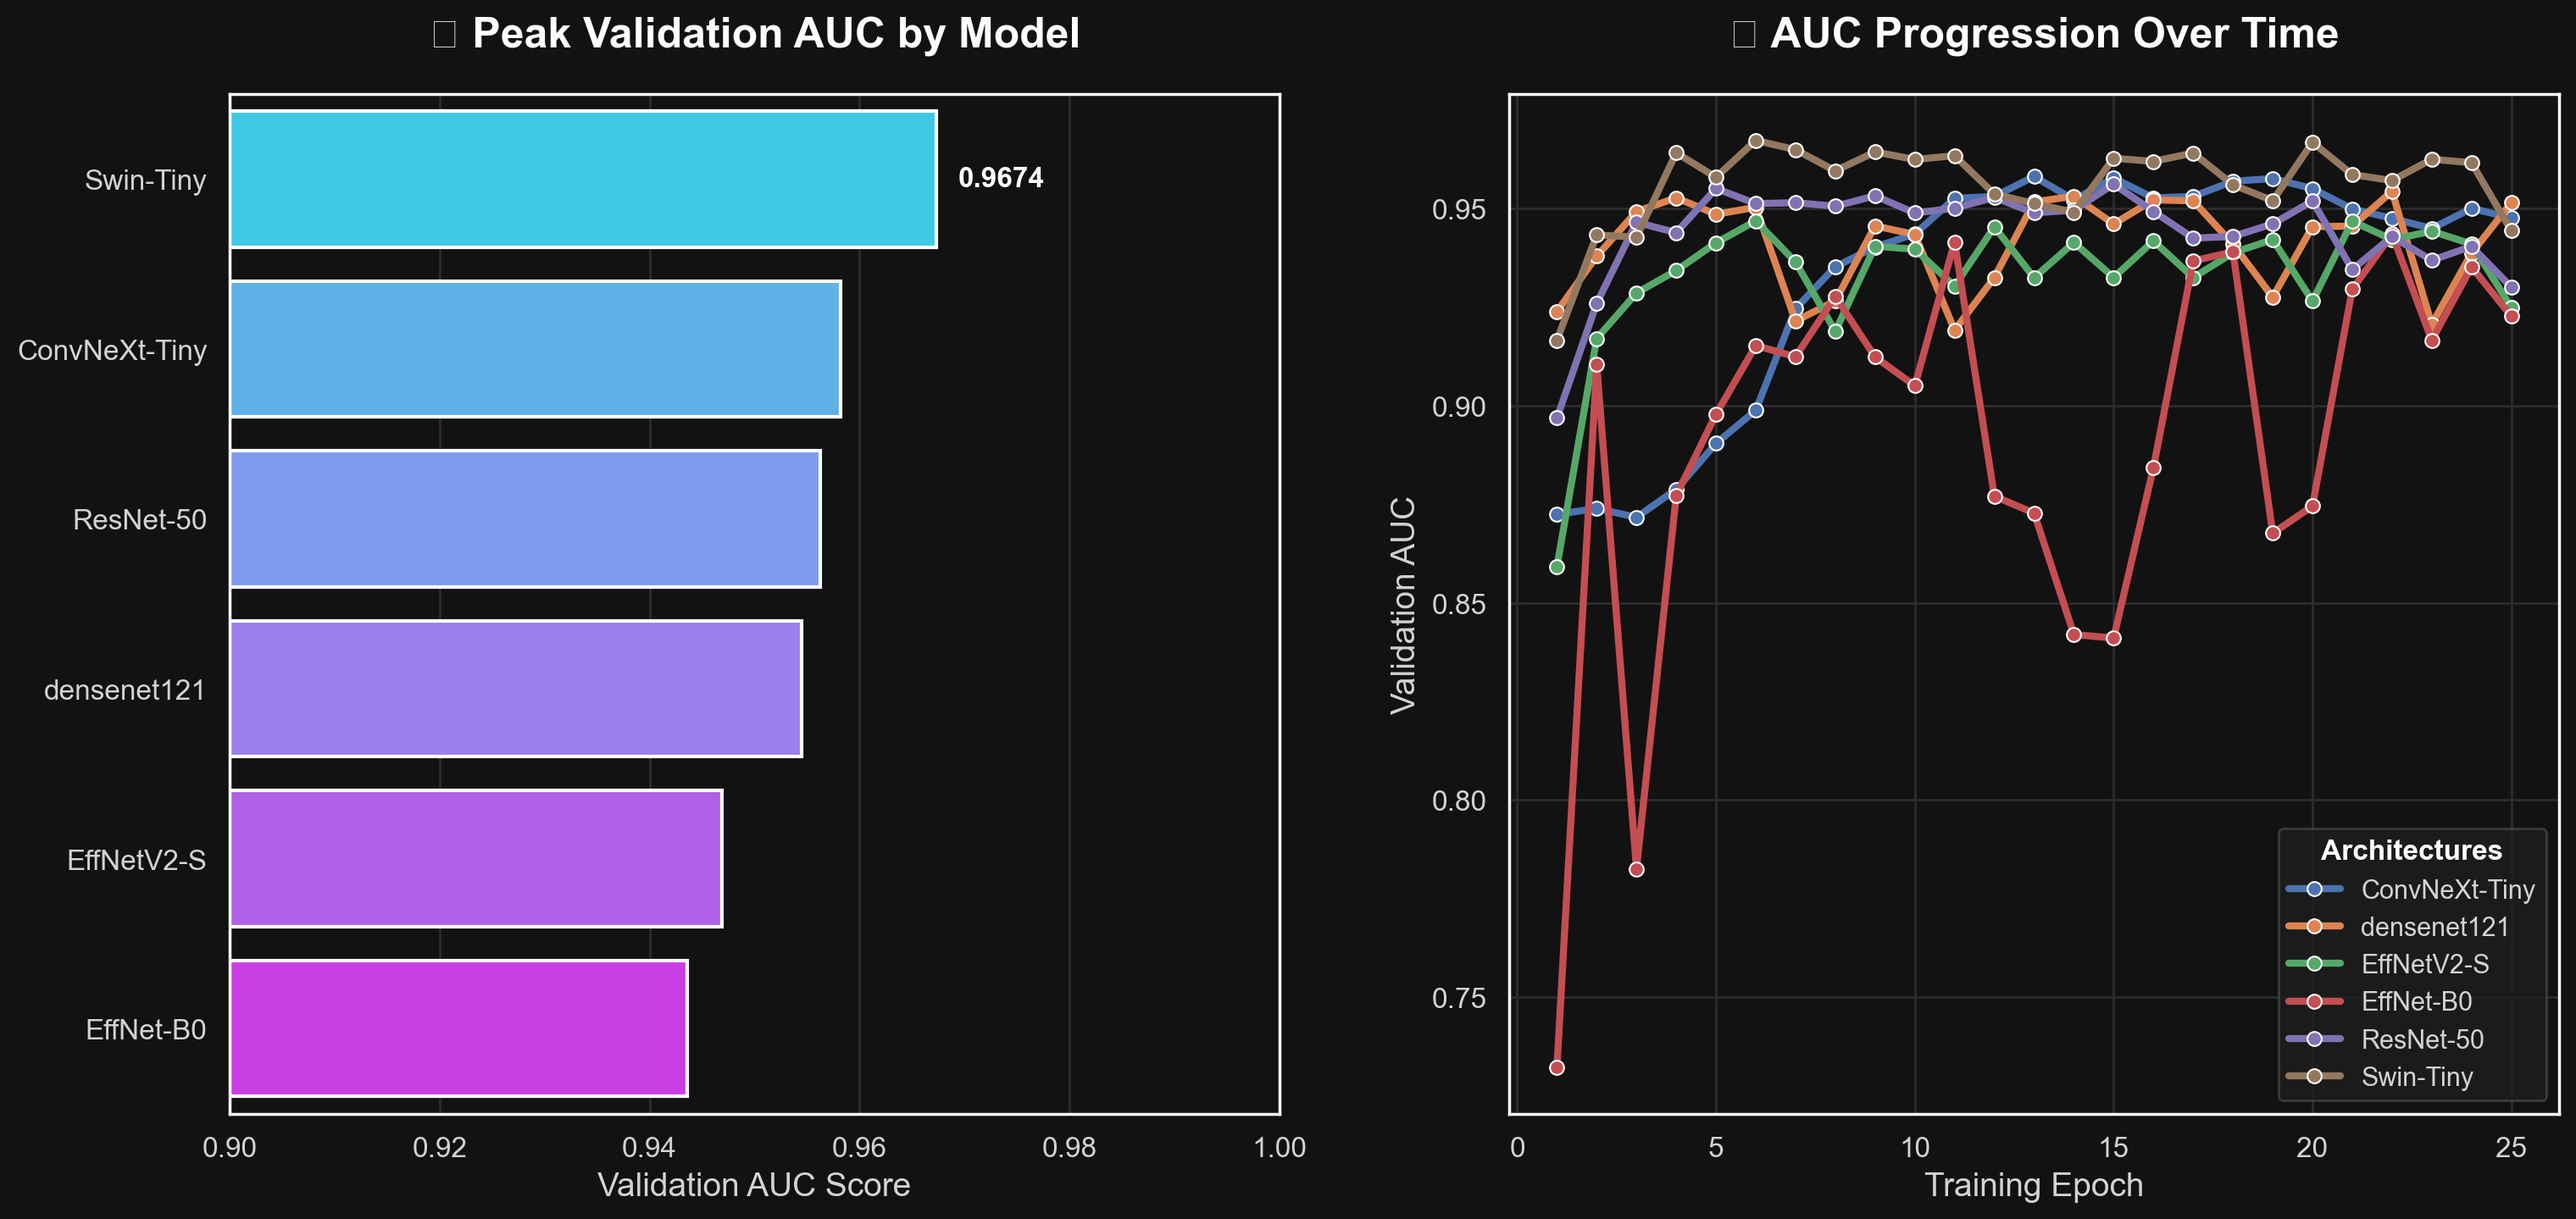
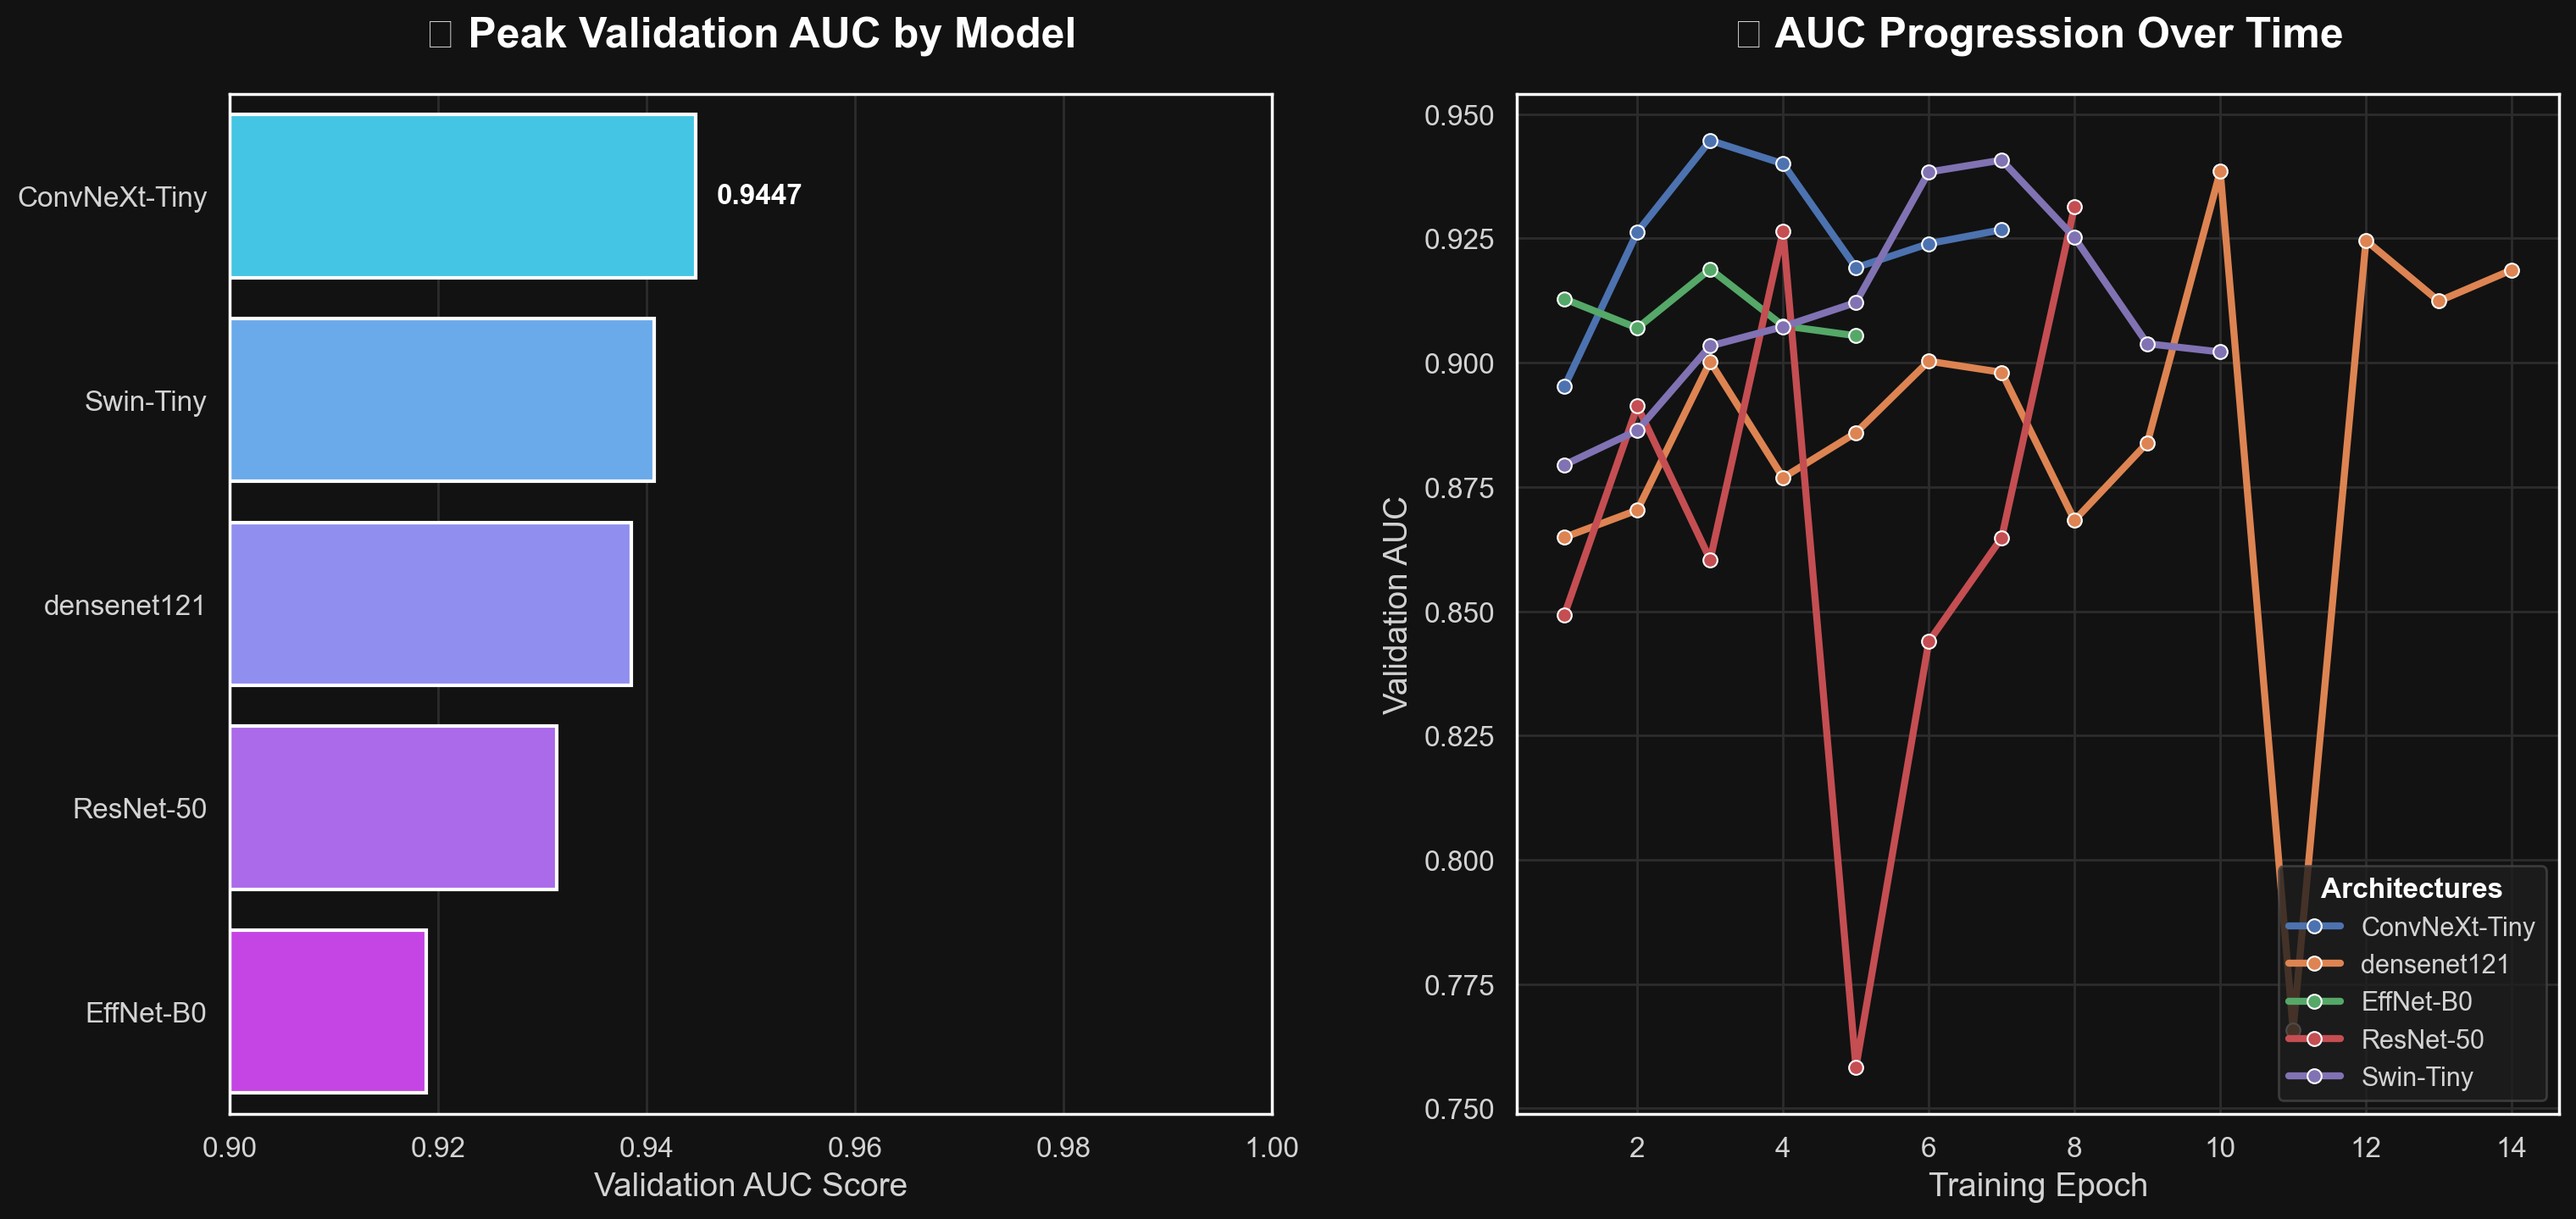
fix: train.py

diff --git a/train_cnmc.py b/train_cnmc.py
@@ -1,13 +1,13 @@
 import os
 import csv
 import math
-import re
 from pathlib import Path
 import numpy as np
 import torch
 import torch.nn as nn
-from torch.utils.data import ConcatDataset, DataLoader
+from torch.utils.data import ConcatDataset, DataLoader, Subset
 from torchvision import datasets, transforms, models
+from sklearn.model_selection import StratifiedShuffleSplit
 from sklearn.metrics import accuracy_score, f1_score, roc_auc_score, confusion_matrix
 import kagglehub
 import torch.nn.functional as F
@@ -20,6 +20,7 @@ BATCH_SIZE = 32
 EPOCHS = 15
 LEARNING_RATE = 3e-4
 WEIGHT_DECAY = 1e-4
+VAL_SPLIT = 0.15
 IMG_SIZE = 224
 SEED = 42
 NUM_WORKERS = 2
@@ -28,7 +29,7 @@ NUM_CLASSES = 2
 DEVICE = torch.device("cuda" if torch.cuda.is_available() else "cpu")
 print(f"Using device: {DEVICE}")
 
-MODEL_NAME = "swin_tiny_patch4_window7_224"
+MODEL_NAME = "efficientnet_b0"
 
 torch.manual_seed(SEED)
 np.random.seed(SEED)
@@ -57,30 +58,10 @@ def find_training_root(root: Path) -> Path:
     )
 
 
-def patient_id(image_path: str) -> str:
-    match = re.match(r"^UID_(H?\d+)_", Path(image_path).stem, re.IGNORECASE)
-    if match is None:
-        raise ValueError(f"Image filename does not contain a recognized patient ID: {image_path}")
-    return match.group(1).upper()
-
-
-def assert_patient_disjoint(train_datasets, val_dataset) -> None:
-    train_patients = {
-        patient_id(path)
-        for dataset in train_datasets
-        for path, _ in dataset.samples
-    }
-    val_patients = {patient_id(path) for path, _ in val_dataset.samples}
-    overlap = train_patients & val_patients
-    if overlap:
-        raise ValueError(
-            "Patient IDs appear in both training and validation folds: "
-            + ", ".join(sorted(overlap))
-        )
-
 dataset_root = Path(dataset_path)
 training_root = find_training_root(dataset_root)
-print(f"Using official folds under: {training_root}")
+fold_roots = [training_root / f"fold_{fold}" for fold in range(3)]
+print(f"Using notebook-style train/validation split across: {training_root}")
 
 imagenet_mean = [0.485, 0.456, 0.406]
 imagenet_std = [0.229, 0.224, 0.225]
@@ -100,24 +81,43 @@ transform_val = transforms.Compose([
     transforms.Normalize(mean=imagenet_mean, std=imagenet_std),
 ])
 
-train_fold_datasets = [
-    datasets.ImageFolder(
-        root=str(training_root / f"fold_{fold}"), transform=transform_train
-    )
-    for fold in (0, 2)
+index_datasets = [
+    datasets.ImageFolder(root=str(fold_root), transform=None)
+    for fold_root in fold_roots
 ]
-val_dataset = datasets.ImageFolder(
-    root=str(training_root / "fold_1"), transform=transform_val
-)
-class_to_idx = train_fold_datasets[0].class_to_idx
-if any(dataset.class_to_idx != class_to_idx for dataset in train_fold_datasets[1:] + [val_dataset]):
+class_to_idx = index_datasets[0].class_to_idx
+if any(dataset.class_to_idx != class_to_idx for dataset in index_datasets[1:]):
     raise ValueError("Class folders differ between the official dataset folds.")
-assert_patient_disjoint(train_fold_datasets, val_dataset)
-
-train_dataset = ConcatDataset(train_fold_datasets)
-train_targets = np.concatenate(
-    [np.asarray(dataset.targets) for dataset in train_fold_datasets]
+targets = np.concatenate(
+    [np.asarray(dataset.targets) for dataset in index_datasets]
 )
+splitter = StratifiedShuffleSplit(
+    n_splits=1, test_size=VAL_SPLIT, random_state=SEED
+)
+train_indices, val_indices = next(
+    splitter.split(np.zeros_like(targets), targets)
+)
+train_dataset = Subset(
+    ConcatDataset([
+        datasets.ImageFolder(root=str(fold_root), transform=transform_train)
+        for fold_root in fold_roots
+    ]),
+    train_indices,
+)
+val_dataset = Subset(
+    ConcatDataset([
+        datasets.ImageFolder(root=str(fold_root), transform=transform_val)
+        for fold_root in fold_roots
+    ]),
+    val_indices,
+)
+if class_to_idx.get("all") != 0 or class_to_idx.get("hem") != 1:
+    raise ValueError(
+        f"Expected ImageFolder class mapping all=0, hem=1; got {class_to_idx}"
+    )
+positive_class = class_to_idx["all"]
+
+train_targets = targets[train_indices]
 class_sample_counts = np.bincount(train_targets, minlength=NUM_CLASSES)
 class_weights = class_sample_counts.sum() / (
     NUM_CLASSES * np.maximum(class_sample_counts, 1)
@@ -134,6 +134,7 @@ val_loader = DataLoader(
 )
 
 print(f"Classes: {class_to_idx}")
+print(f"Class mapping: {class_to_idx} (positive/cancer class: all)")
 print(f"Training images: {len(train_dataset)}; validation images: {len(val_dataset)}")
 print(f"Class weights: {class_weights.tolist()}")
 
@@ -187,8 +188,7 @@ def evaluate(model, dataloader, criterion):
             loss = criterion(outputs, labels)
             running_loss += loss.item() * images.size(0)
             
-            # Get probabilities for the positive class (class 1)
-            probs = F.softmax(outputs, dim=1)[:, 1]
+            probs = F.softmax(outputs, dim=1)[:, positive_class]
             _, preds = torch.max(outputs, 1)
             
             all_preds.extend(preds.cpu().numpy())
@@ -198,15 +198,17 @@ def evaluate(model, dataloader, criterion):
     # Calculate Metrics
     val_loss = running_loss / len(dataloader.dataset)
     acc = accuracy_score(all_labels, all_preds)
-    f1 = f1_score(all_labels, all_preds)
-    auc = roc_auc_score(all_labels, all_probs)
+    positive_labels = np.asarray(all_labels) == positive_class
+    f1 = f1_score(all_labels, all_preds, average="weighted")
+    auc = roc_auc_score(positive_labels, all_probs)
     
-    cm = confusion_matrix(all_labels, all_preds)
-    # cm structure: [[TN, FP], [FN, TP]]
+    cm = confusion_matrix(
+        all_labels, all_preds, labels=[1 - positive_class, positive_class]
+    )
     if cm.shape == (2, 2):
         tn, fp, fn, tp = cm.ravel()
-        sensitivity = tp / (tp + fn) if (tp + fn) > 0 else 0.0 # True Positive Rate / Recall
-        specificity = tn / (tn + fp) if (tn + fp) > 0 else 0.0 # True Negative Rate
+        sensitivity = tp / (tp + fn) if (tp + fn) > 0 else 0.0
+        specificity = tn / (tn + fp) if (tn + fp) > 0 else 0.0
     else:
         sensitivity = 0.0
         specificity = 0.0
